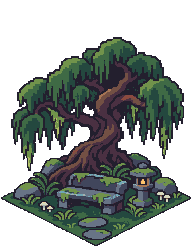
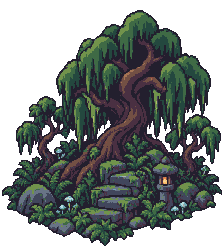
art: grow enchanted willow grove and dense lake shore thickets

diff --git a/docs/enchanted-pond-woodland-20261108.md b/docs/enchanted-pond-woodland-20261108.md
@@ -1,0 +1,7 @@
+# Enchanted lake woodland
+
+Owner requested denser, more magical planting around the willow, lake and aquatic beds. Replace the isolated willow nook with a layered ancient grove: trailing evergreen foliage, smaller crooked trees, root tangles, ferns, ivy, mossy stones, old steps, amber lantern and cyan mushrooms. Add six native low alder/fern thickets around the outside banks. Preserve the lake, all ten aquatic planting beds and the south col20.5 access path. No gameplay, save, crop or water-creature changes.
+
+Four authored normal/snow sprites share seasonal canvases and pivots. Nook224×248, pivot112,230, existing logical location and3×3 footprint preserved; canopy overhang grows16px on each side. Thicket160×144, pivot80,136. Source atlas/prompt/checksums: environment/pond/masters/woodland-20261108/. Rebuild build-pond-woodland.mjs after base pond/winter builders, then build-runtime-webp.mjs. Native palette, binary alpha, nearest sampling; runtime draws at native size. New thickets defer until a built pond is drawn. Winter variants defer with the existing winter kit. Pond UI now reads canonical scenery metadata directly from pond-art to avoid stale duplicate dimensions.
+
+Verification:27 focused tests passed (woodland root clearance for lake/10beds/approach, native artwork hashes/palette/alpha/seasonal anchors, pond UI, winter lazy loading, forest and renderer). WebP1398+8 RGBA parity. Actual3026 evidence and import commit recorded in HPVNN. Local only, no push/deploy.
